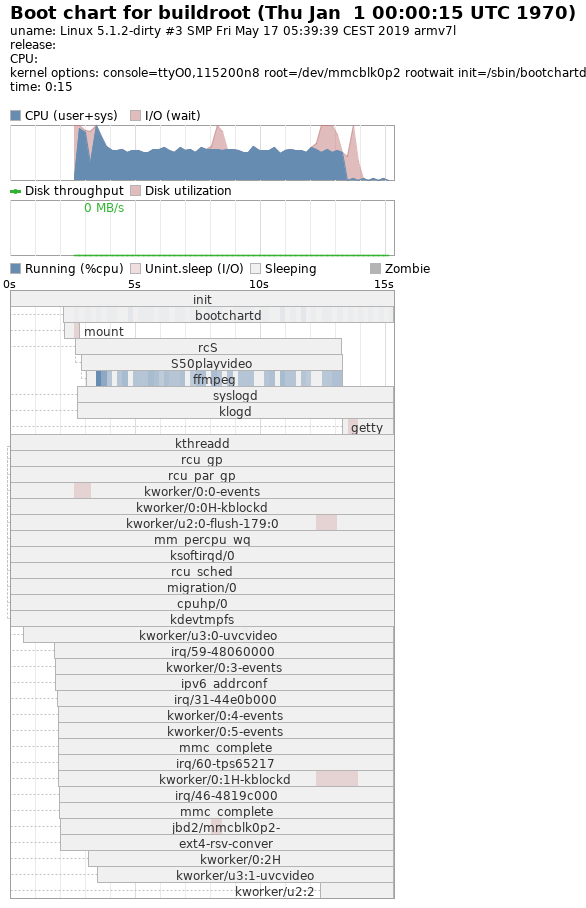
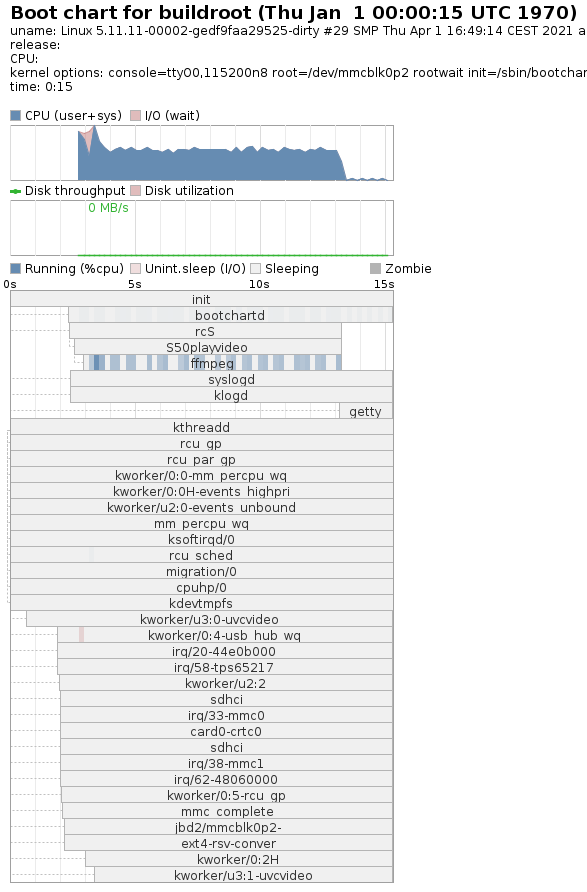
Boot time labs: updates for the init-scripts optimizations

diff --git a/labs/boot-time-init-scripts/boot-time-init-scripts.tex b/labs/boot-time-init-scripts/boot-time-init-scripts.tex
@@ -11,18 +11,20 @@ Check and write down the initial size of the root filesystem archive.
 
 \subsection{Use bootchartd on the board}
 
-Add \code{bootchartd} to your \code{BusyBox} configuration:
+Add \code{bootchartd} support (\projconfig{busybox}{CONFIG_BOOTCHARTD})
+to your \code{BusyBox} configuration:
 
 \begin{verbatim}
 cd ~/boot-time-labs/rootfs/buildroot
 make busybox-menuconfig
-make
 \end{verbatim}
 
-Also add support for {\em gzip compression} in utilities like \code{tar}
-(\code{BR2_FEATURE_SEAMLESS_GZ}), which is needed by \code{bootchartd}.
+In \code{Archival Utilities}, also enable \code{Make tar, rpm, modprobe
+etc understand .gz data} (\code{FEATURE_SEAMLESS_GZ}), which is needed by
+\code{bootchartd}.
 
-The \code{make} command should only take a few seconds to run.
+After saving the configuration, the \code{make} command should only take
+a few seconds to run.
 
 \subsection{Re-flash the root filesystem}
 
@@ -44,15 +46,28 @@ U-Boot> saveenv
 
 This will make the system boot and the resulting bootlog will be located
 in \code{/var/log/bootlog.tgz}. As \code{/var/log} is actually stored in
-RAM (through the {\em tmpfs} filesystem, copy it to the root filesystem
-storage and halt your board:
+RAM (through the {\em tmpfs} filesystem, you will copy it to the root
+filesystem.
+
+First, as the filesystem is read-only, remount it in read-write mode:
+\begin{verbatim}
+mount -o remount,rw /
+\end{verbatim}
+
+Now, copy the file to the root filesystem storage and halt your board:
 
 \begin{verbatim}
 cp /var/log/bootlog.tgz /root/
 halt
 \end{verbatim}
 
-Remove the SD card and copy that file to \code{~/boot-time-labs/rootfs/} on your host.
+Remove the SD card, insert it in your PC, and copy that file on your host:
+
+\begin{verbatim}
+cd $HOME/boot-time-labs/rootfs
+sudo cp /media/$USER/rootfs/root/bootlog.tgz .
+sudo chown $USER.$USER bootlog.tgz
+\end{verbatim}
 
 \subsection{Analyze bootchart data on your workstation}
 
@@ -69,8 +84,7 @@ Now, get the \code{bootchart} source code for version 0.9 from
 \url{http://www.bootchart.org/}\footnote{Don't try to get the \code{bootchart} package supplied by
 Ubuntu instead. While it has similar functionality, it looks like a completely
 unrelated piece of software. To confirm this, it has no dependency
-whatsoever on Java packages.}
-, compile it and use \code{bootchart} to generate the boot
+whatsoever on Java packages.}, compile it and use \code{bootchart} to generate the boot
 chart:
 
 \begin{verbatim}

diff --git a/labs/boot-time-build-kernel-and-start-system/boot-time-build-kernel-and-start-system.tex b/labs/boot-time-build-kernel-and-start-system/boot-time-build-kernel-and-start-system.tex
@@ -203,6 +203,11 @@ setenv bootargs console=ttyO0,115200n8 root=/dev/mmcblk0p2 rootwait ro
 \item \code{rootwait} waits for the root device to be ready before
 attempting to mount it. You may have a kernel panic otherwise.
 \item \code{ro} mounts the root filesystem in read-only mode.
+If this is possible, this is quite important to avoid random
+filesystem checks at boot time, depending on how the system was shut
+down, switched off or rebooted. Such filesystem checks can add a lot
+of jitter from one boot to another, making boot time measurements
+unpredicable and difficult to reproduce.
 \end{itemize}
 
 Last but not least, save your changes:
